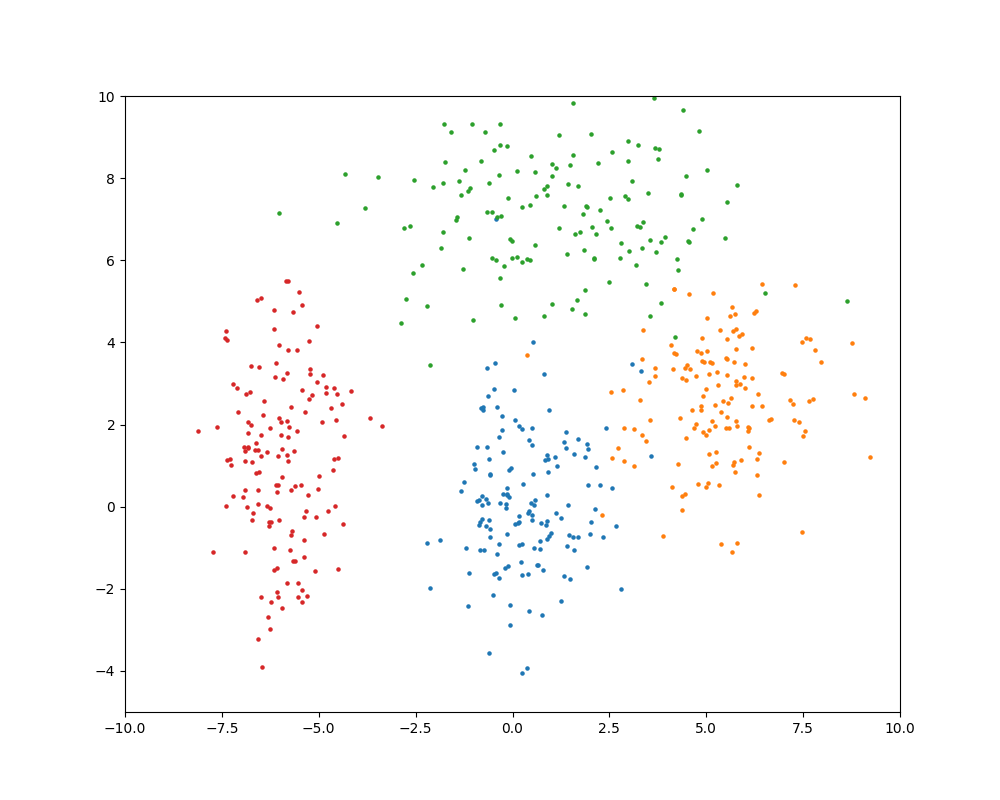
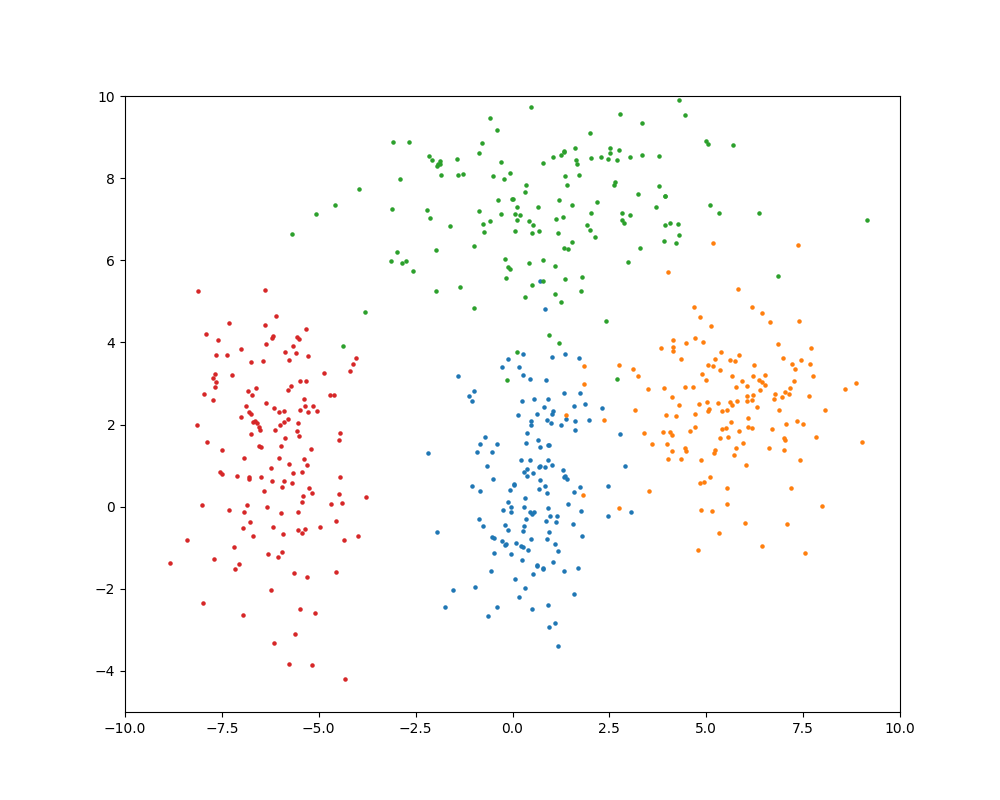
Add readme.

diff --git a/plot_clusters.py b/plot_clusters.py
@@ -28,4 +28,5 @@ class PlotAllClusters:
             ax.add_patch(ellipse)
 
     def show_plot(self):
+        plt.savefig('processing.png')
         plt.show()

diff --git a/README.md b/README.md
@@ -1,0 +1,17 @@
+# Gaussian Mixture Model (Expectation Maximization)
+Implement EM-algorithm for Gaussian Mixture Model in pytorch.
+
+### Usage
+
+```sh
+python run_gmm.py --k 4 --epoch 30 --model_class GMM
+```
+
+### Origin data distribution
+
+![Origin data distribution](origin.png)
+
+### K clustering result (Find K Gaussian distribution)
+
+![Finding k clustering distribution process](processing.png)
+
